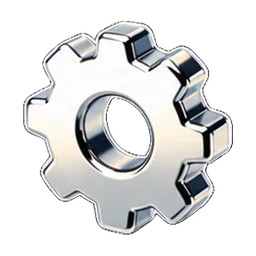
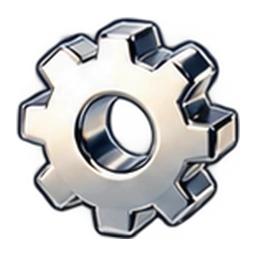
Bundle each theme's settings and feature page artwork

diff --git a/theme/pageIcons.ts b/theme/pageIcons.ts
@@ -1,0 +1,21 @@
+/** Page identities bundled from the same original packs as web. */
+const PAGE_ICONS: Record<string, { settings: number; features: number }> = {
+  system: { settings: require('../assets/theme-icons/settings-system.webp'), features: require('../assets/theme-icons/features-system.webp') },
+  minimal: { settings: require('../assets/theme-icons/settings-minimal.webp'), features: require('../assets/theme-icons/features-minimal.webp') },
+  cosmic: { settings: require('../assets/theme-icons/settings-cosmic.webp'), features: require('../assets/theme-icons/features-cosmic.webp') },
+  hazy: { settings: require('../assets/theme-icons/settings-hazy.webp'), features: require('../assets/theme-icons/features-hazy.webp') },
+  swarms: { settings: require('../assets/theme-icons/settings-swarms.webp'), features: require('../assets/theme-icons/features-swarms.webp') },
+  lavalamp: { settings: require('../assets/theme-icons/settings-lavalamp.webp'), features: require('../assets/theme-icons/features-lavalamp.webp') },
+  winter: { settings: require('../assets/theme-icons/settings-winter.webp'), features: require('../assets/theme-icons/features-winter.webp') },
+  war: { settings: require('../assets/theme-icons/settings-war.webp'), features: require('../assets/theme-icons/features-war.webp') },
+  osaka: { settings: require('../assets/theme-icons/settings-osaka.webp'), features: require('../assets/theme-icons/features-osaka.webp') },
+  jungle: { settings: require('../assets/theme-icons/settings-jungle.webp'), features: require('../assets/theme-icons/features-jungle.webp') },
+  island: { settings: require('../assets/theme-icons/settings-island.webp'), features: require('../assets/theme-icons/features-island.webp') },
+  hacker: { settings: require('../assets/theme-icons/settings-hacker.webp'), features: require('../assets/theme-icons/features-hacker.webp') },
+  horror: { settings: require('../assets/theme-icons/settings-horror.webp'), features: require('../assets/theme-icons/features-horror.webp') },
+};
+
+export function themePageIcon(theme: string, key: 'settings' | 'features'): number {
+  return (PAGE_ICONS[theme] ?? PAGE_ICONS.system)[key];
+}
+

diff --git a/screens/AccountSettingsScreen.tsx b/screens/AccountSettingsScreen.tsx
@@ -40,6 +40,7 @@ import AppTopBar from "../components/AppTopBar";
 import { Ionicons } from "@expo/vector-icons";
 import { Image } from "expo-image";
 import { useAppTheme } from "../context/ThemeContext";
+import { themePageIcon } from "../theme/pageIcons";
 import LiquidGlass from "../components/ui/LiquidGlass";
 import FullScreenLoader from "../components/FullScreenLoader";
 import ReportBugModal from "../components/Settings/ReportBugModal";
@@ -86,23 +87,6 @@ import {
 } from "../libs/settings-search";
 
 const APP_VERSION = Constants.expoConfig?.version ?? "1.0.0";
-
-/**
- * Web heads the settings page with its themed 3D settings icon
- * (public/theme-icons/<theme>/settings.webp). War draws its own HUD glyph on
- * web, which the app has no counterpart for, so it keeps the system one.
- */
-const SETTINGS_ICONS: Record<string, number> = {
-  system: require("../assets/theme-icons/settings-system.webp"),
-  minimal: require("../assets/theme-icons/settings-minimal.webp"),
-  cosmic: require("../assets/theme-icons/settings-cosmic.webp"),
-  hazy: require("../assets/theme-icons/settings-hazy.webp"),
-  swarms: require("../assets/theme-icons/settings-swarms.webp"),
-  lavalamp: require("../assets/theme-icons/settings-lavalamp.webp"),
-  winter: require("../assets/theme-icons/settings-winter.webp"),
-  osaka: require("../assets/theme-icons/settings-osaka.webp"),
-  jungle: require("../assets/theme-icons/settings-jungle.webp"),
-};
 
 /** Web's small header control: `h-10 rounded-xl bg-white/5 border border-white/10`. */
 const HEADER_CONTROL = "h-10 w-10 rounded-xl bg-white/5 border border-white/10 items-center justify-center flex-row";
@@ -272,7 +256,7 @@ const AccountSettingsScreen: React.FC<any> = ({ navigation, route }) => {
               </TouchableOpacity>
             ) : null}
             <Image
-              source={SETTINGS_ICONS[theme] ?? SETTINGS_ICONS.system}
+              source={themePageIcon(theme, 'settings')}
               style={{ width: 40, height: 40 }}
               contentFit="contain"
             />

diff --git a/screens/FeatureRequestsScreen.tsx b/screens/FeatureRequestsScreen.tsx
@@ -55,6 +55,7 @@ import { formatCompactNumber } from "../libs";
 import { useUser, useAuthState } from "../context/AuthContext";
 import { useUserProfileSheet } from "../context/UserProfileSheetContext";
 import { useAppTheme } from "../context/ThemeContext";
+import { themePageIcon } from "../theme/pageIcons";
 import {
   MINIMAL_TAB_TEXT,
   MINIMAL_TAB_TEXT_ACTIVE,
@@ -98,9 +99,6 @@ const COMMENT_MAX = 500;
 const TITLE_MAX = 100;
 const DESC_MAX = 1000;
 const DEVICE_MAX = 300;
-
-/** Web's header lightbulb, served from the same place the site serves it. */
-const HEADER_ICON_URI = "https://dehub.io/theme-icons/system/features.webp";
 
 type PageTab = "requests" | "shipping" | "shipped";
 
@@ -849,7 +847,7 @@ export default function FeatureRequestsScreen() {
   // Minimal: the header bento and request cards become edge-to-edge hairline
   // groups, the Requests/Shipping/Shipped strip becomes file tabs. Search,
   // chips and buttons keep their fill.
-  const { isMinimal } = useAppTheme();
+  const { isMinimal, theme } = useAppTheme();
   const insets = useSafeAreaInsets();
   const { width } = useWindowDimensions();
   const navigation = useNavigation<any>();
@@ -1043,7 +1041,7 @@ export default function FeatureRequestsScreen() {
             </View>
           ) : (
             <Image
-              source={{ uri: HEADER_ICON_URI }}
+              source={themePageIcon(theme, 'features')}
               style={styles.headerIcon}
               contentFit="contain"
               transition={150}
